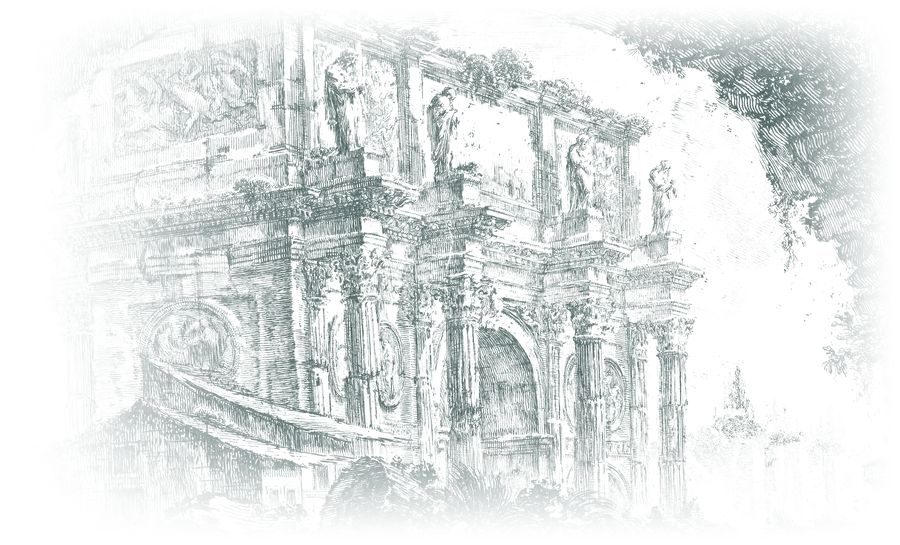
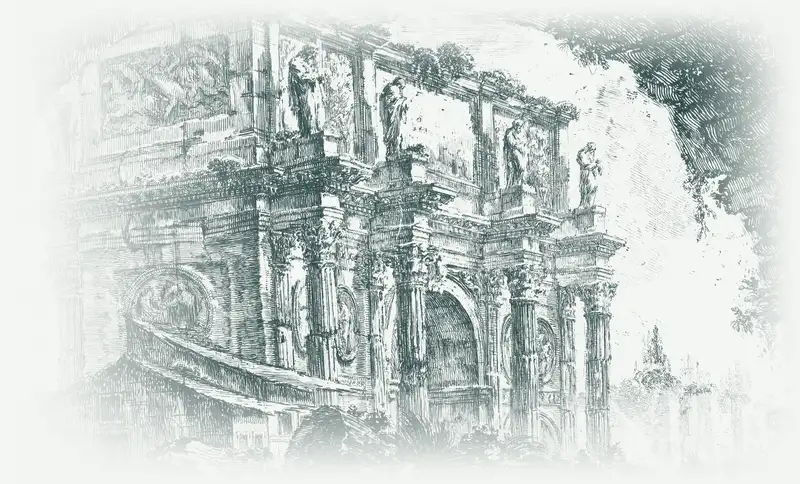
Tidepool: etched artwork on every page
Each page hero carries a public domain etching in the site's green duotone, faded into the page: Piranesi's Ponte Lugano on the bridge, his Giant Wheel on the flywheel, the Temple of Juturna columns on fees, Marot's library on docs, and Stradanus's engraver's workshop on the launch page. The footer ends in Piranesi's view of the Campo Vaccino as a full-width panorama. Sources: Art Institute of Chicago, Metropolitan Museum of Art and Cleveland Museum of Art open access (CC0). Images are opaque page-coloured WebP with the fades baked in, 90 to 280 KB each, with smaller copies for phones.

Claude-Session: https://claude.ai/code/session_01AAbnACDV9o9hhttvbxBPy7

diff --git a/launchpad-v4/tide/tide.js b/launchpad-v4/tide/tide.js
@@ -17,6 +17,7 @@
   };
   const state = { route: '', tf: 900, cmode: 'mcap', side: 'b', ttab: 'trades', busy: false, slip: Number((() => { try { return localStorage.getItem('slip'); } catch { return 0; } })() || 100) };
   const link = (t) => `#/token/${t.addr}`;
+  const etch = (name) => `<picture><source media="(max-width:900px)" srcset="/img/etch-${name}-sm.webp"><img class="etch" src="/img/etch-${name}.webp" alt="" decoding="async"></picture>`;
   const pct = (shareBps) => String(+((C.econ.feeBps / 100) * shareBps / 10000).toFixed(2));
   const chip = (v) => `<span class="chg ${v > 0 ? 'up' : v < 0 ? 'dn' : ''}">${(v > 0 ? '+' : '') + v.toFixed(Math.abs(v) >= 100 ? 0 : 1)}%</span>`;
   const feeOf = (t) => ((t.feeBps || C.econ.feeBps) / 100).toFixed(1).replace(/\.0$/, '') + '%';
@@ -170,8 +171,8 @@
     const pv = () => { const dev = parseFloat(CF.devBuy) || 0; return `${ribbon(CF.symbol || 'ticker')}<div class="ph"><span class="av">${CF.image ? `<img src="${CF.image}" alt="">` : `<img src="${APP.defaultImg(CF.symbol || '?', CF.name)}" alt="">`}</span><div><b>$${esc(CF.symbol || 'TICKER')}</b><small>${esc(CF.name || 'Your token')} · <span class="pill teal">new</span></small></div></div><div class="cap"><b>${fmtUsd(E.openMcapHype * APP.hypeUsd)}</b><span>opening market cap · ${fmtNum(E.openMcapHype)} ${esc(Q)}</span></div>
       <div class="kvs"><div class="kv"><span>Supply</span><b>${fmtNum(E.supply)}</b></div><div class="kv"><span>Paired with</span><b>${esc(Q)}</b></div><div class="kv"><span>Swap fee</span><b>${((E.feeBps + CF.creatorTaxBps) / 100).toFixed(1)}%</b></div><div class="kv"><span>To you</span><b>${pct(E.creatorShareBps)}% of every trade</b></div><div class="kv"><span>Anti-snipe</span><b>${E.snipeSeconds}s, ${E.snipeStartBps / 100}% → ${(E.feeBps / 100).toFixed(1)}%</b></div><div class="kv"><span>Dev buy</span><b>${dev ? dev + ' ' + Q : 'none'}</b></div><div class="kv"><span>Launch fee</span><b>${E.launchFeeHype} ${esc(Q)}</b></div><div class="kv"><span>You send</span><b>${fmtNum(E.launchFeeHype + dev, 4)} ${esc(Q)}</b></div></div>
       <div style="padding:0 16px 16px"><button class="btn lg full pri" id="c-go" ${live ? '' : 'disabled'}>${!live ? 'Opens with the Elysium launch' : !APP.W.connected ? 'Connect' : 'Launch'}</button></div>`; };
-    view.innerHTML = `<div class="page"><span class="eyebrow">Launch in one transaction</span><h1 class="disp" style="font-size:52px;margin-top:10px">Mint your <em>token.</em></h1><p class="mute" style="margin-top:8px;max-width:560px;font-size:15px">It creates the token, its ${esc(Q)} pool and the fee routing. Everything is fixed once it is live.</p>
-      <div class="lform" style="margin-top:26px"><div class="card pad form">
+    view.innerHTML = `<div class="page"><section class="phero lhero"><div><span class="eyebrow">Launch in one transaction</span><h1 class="disp" style="font-size:52px;margin-top:10px">Mint your <em>token.</em></h1><p class="mute" style="margin-top:8px;max-width:560px;font-size:15px">It creates the token, its ${esc(Q)} pool and the fee routing. Everything is fixed once it is live.</p></div><div class="pa etched">${etch('press')}</div></section>
+      <div class="lform" style="margin-top:8px"><div class="card pad form">
         <div style="display:flex;gap:18px;align-items:center"><label class="logo-pick" id="c-pick">${CF.image ? `<img src="${CF.image}" alt="">` : 'Upload<br>image'}<input type="file" id="c-file" accept="image/*" hidden></label><div style="flex:1;display:grid;gap:12px"><div class="fld"><label>Name</label><input class="inp" id="c-name" maxlength="32" placeholder="Name" value="${esc(CF.name)}"></div><div class="fld"><label>Ticker</label><input class="inp" id="c-sym" maxlength="10" placeholder="TICKER" value="${esc(CF.symbol)}"></div></div></div>
         <div class="fld"><label>Description · optional</label><textarea class="inp" id="c-desc" maxlength="256" placeholder="What is it?">${esc(CF.description)}</textarea></div>
         <div class="row2"><div class="fld"><label>X</label><input class="inp" id="c-x" placeholder="https://x.com/…" value="${esc(CF.x)}"></div><div class="fld"><label>Telegram</label><input class="inp" id="c-tg" placeholder="https://t.me/…" value="${esc(CF.telegram)}"></div></div>
@@ -195,7 +196,7 @@
   function bridge(sub) {
     if (!BR) { view.innerHTML = '<div class="page"><div class="empty">No bridge configured.</div></div>'; return; }
     const P = BR.parent, me = APP.W.connected ? APP.W.address : '';
-    const hero = `<section class="phero"><div><h1 class="disp">Bridge<span class="h-dot">.</span></h1><p>Bring ${esc(Q)} to Elysium, where Tidepool launches and trades: from ${esc(P.name)}, or from almost any coin you hold.</p>${sub ? `<a class="btn sm" href="#/bridge" style="margin-top:14px">← All bridge options</a>` : ''}</div><div class="pa">${art(21, 900, 420)}</div></section>`;
+    const hero = `<section class="phero"><div><h1 class="disp">Bridge<span class="h-dot">.</span></h1><p>Bring ${esc(Q)} to Elysium, where Tidepool launches and trades: from ${esc(P.name)}, or from almost any coin you hold.</p>${sub ? `<a class="btn sm" href="#/bridge" style="margin-top:14px">← All bridge options</a>` : ''}</div><div class="pa etched">${etch('bridge')}</div></section>`;
     if (!sub) {
       view.innerHTML = `<div class="page">${hero}
         <div class="bcards">
@@ -320,7 +321,7 @@
     const proto = ts.reduce((a, t) => a + t.feesAll * (1 - t.creatorShareBps / 10000), 0), own = tide ? tide.feesAll * (tide.creatorShareBps / 10000) : 0, bb = (ST.burnBps || 0) / 100;
     const spent = fly ? fly.burnedQuote : 0, burned = fly ? fly.burnedTokens : 0, queued = fly ? fly.toBuyback - fly.burnedQuote : 0, burns = fly ? fly.events.filter((e) => e.kind === 'burn') : [];
     const range = state.fwr || 'all', now = Math.floor(Date.now() / 1000), span = range === '1d' ? 86400 : range === '7d' ? 7 * 86400 : range === '30d' ? 30 * 86400 : Infinity, inRange = burns.filter((e) => now - e.ts <= span);
-    view.innerHTML = `<div class="page"><section class="phero"><div><h1 class="disp">Flywheel<span class="h-dot">.</span></h1><p>Every trade pays a fixed ${(C.econ.feeBps / 100).toFixed(1)}% in ${esc(Q)}. ${pct(C.econ.creatorShareBps)}% of volume goes to the creator of the token that was traded; the protocol's ${pct(C.econ.protocolShareBps)}% flows into $${esc(T)}.</p></div><div class="pa">${art(33, 900, 420)}</div></section>
+    view.innerHTML = `<div class="page"><section class="phero"><div><h1 class="disp">Flywheel<span class="h-dot">.</span></h1><p>Every trade pays a fixed ${(C.econ.feeBps / 100).toFixed(1)}% in ${esc(Q)}. ${pct(C.econ.creatorShareBps)}% of volume goes to the creator of the token that was traded; the protocol's ${pct(C.econ.protocolShareBps)}% flows into $${esc(T)}.</p></div><div class="pa etched">${etch('wheel')}</div></section>
       <div class="sec"><h2>Fees into $${esc(T)}</h2><span class="ln"></span></div>
       <div class="fwgrid"><div><div class="fcard"><div class="lab"><span>Protocol fees</span><span class="pill teal">${bb}% to buybacks</span></div><div class="v"><b>${fmtNum(proto, 3)} ${esc(Q)}</b><span>${fmtUsd(proto * APP.hypeUsd)}</span></div><small>${C.econ.protocolShareBps / 100}% of every fee, from ${ts.length} launches</small></div><div class="fcard"><div class="lab"><span>$${esc(T)}'s own fees</span><span class="pill teal">creator side</span></div><div class="v"><b>${fmtNum(own, 3)} ${esc(Q)}</b><span>${fmtUsd(own * APP.hypeUsd)}</span></div><small>Its pool's whole creator side belongs to the protocol</small></div></div>
         <div class="mid">Buys $${esc(T)}</div>
@@ -342,7 +343,7 @@
   // ---- fees (creators)
   function fees() {
     const me = APP.W.connected ? low(APP.W.address) : '';
-    const hero = `<section class="phero"><div><h1 class="disp">Your fees<span class="h-dot">.</span></h1><p>Creator fees from the tokens you launched, ready to claim to your wallet.</p></div><div class="pa">${art(44, 900, 420)}</div></section>`;
+    const hero = `<section class="phero"><div><h1 class="disp">Your fees<span class="h-dot">.</span></h1><p>Creator fees from the tokens you launched, ready to claim to your wallet.</p></div><div class="pa etched">${etch('columns')}</div></section>`;
     if (!me) { view.innerHTML = `<div class="page">${hero}<div class="card pad" style="text-align:center;padding:48px 20px"><h2>Connect to see your fees</h2><p class="mute" style="margin-top:8px">Creator fees from the tokens you launched collect here until you claim them.</p><button class="btn pri" id="f-conn" style="margin-top:18px">Connect</button></div></div>`; $('#f-conn').onclick = APP.W.connect; return; }
     const cr = DATA.creator(me), mine = cr.tokens || [];
     view.innerHTML = `<div class="page">${hero}<div class="grid2"><div class="card pad"><span class="eyebrow">Claimable now</span><div class="adres" style="border:0;padding:0;margin-top:10px"><b>${hype(cr.pending, 5)}</b><small>${usd(cr.pending)} across ${mine.length} token${mine.length === 1 ? '' : 's'} · ${hype(cr.lifetime, 4)} earned all time</small></div><button class="btn lg full pri" id="f-claim" style="margin-top:18px" ${cr.pending > 0 ? '' : 'disabled'}>${cr.pending > 0 ? 'Claim to my wallet' : 'Nothing to claim yet'}</button></div>
@@ -431,7 +432,7 @@
     const addr = (a) => (a ? `<a class="num" href="${APP.explorer('address', a)}" target="_blank" rel="noopener">${esc(a)}</a>` : '<span class="mute">not deployed yet</span>');
     const toc = [['How it works', [['uniswap', 'Built on Uniswap'], ['launch', 'Launching a token'], ['fees', 'Fees'], ['flywheel', 'Buybacks'], ['tide', '$' + S]]], ['Using Tidepool', [['trading', 'Trading'], ['bridge', 'Bridge'], ['airdrop', 'Airdrop'], ['network', 'Network and RPC']]], ['Reference', [['contracts', 'Contracts']]]];
     let n = 0; const adPct = AD ? AD.pools.reduce((a, p) => a + p.pct, 0) : 0, PN = BR ? BR.parent.name : 'HyperEVM';
-    view.innerHTML = `<div class="page"><section class="phero" style="min-height:0;margin-bottom:10px"><div><h1 class="disp">Docs<span class="h-dot">.</span></h1><p>What happens when a token launches on Tidepool, where every fee goes, and the address of every contract.</p></div><div class="pa" style="height:180px">${art(55, 900, 300)}</div></section>
+    view.innerHTML = `<div class="page"><section class="phero" style="min-height:0;margin-bottom:10px"><div><h1 class="disp">Docs<span class="h-dot">.</span></h1><p>What happens when a token launches on Tidepool, where every fee goes, and the address of every contract.</p></div><div class="pa etched" style="height:180px">${etch('library')}</div></section>
       <div class="docs"><nav class="toc">${toc.map(([g, items]) => `<span>${g}</span>${items.map(([id, l]) => `<a href="#/docs#${id}" data-doc="${id}"><i>${String(++n).padStart(2, '0')}</i>${l}</a>`).join('')}`).join('')}</nav>
       <article class="doc">
         <section id="d-uniswap"><h2>Built on Uniswap</h2><p>Tidepool runs on the official Uniswap v4 deployment on Elysium. Every Tidepool pool lives in the PoolManager that Uniswap deployed there, and trades go through Uniswap's own UniversalRouter. Tidepool adds a hook to it, not a copy of it.</p></section>
@@ -472,7 +473,7 @@
     const o = $('#m-out', ov); if (o) o.onclick = () => { W.disconnect(); close(); };
   }
   function searchDialog() { const ov = APP.dialog('Search', `<div class="picker"><input class="inp" id="sq" placeholder="Name, ticker or address" autocomplete="off"><div class="list" id="sq-list"></div></div>`); const draw = (s) => { const ls = DATA.tokens().filter((t) => s && (t.name.toLowerCase().includes(s) || t.symbol.toLowerCase().includes(s) || t.addr.includes(s))).slice(0, 8); $('#sq-list', ov).innerHTML = ls.map((t) => `<a class="row" href="${link(t)}"><span class="av">${APP.img(t)}</span><span><b>${esc(t.name)}</b><small>$${esc(t.symbol)} · ${fmtUsd(t.mcapUsd)}</small></span></a>`).join(''); $$('a', ov).forEach((a) => a.onclick = () => ov.remove()); }; $('#sq', ov).oninput = (e) => draw(e.target.value.trim().toLowerCase()); setTimeout(() => $('#sq', ov).focus(), 30); }
-  function footer() { const f = $('#foot-art'); if (f && window.ART) f.innerHTML = ART.waves({ w: 1400, h: 140, seed: 2 }); const y = $('#f-year'); if (y) y.textContent = new Date().getFullYear(); }
+  function footer() { const f = $('#foot-art'); if (f) f.innerHTML = `<img class="pano" src="/img/etch-forum.webp" srcset="/img/etch-forum-sm.webp 900w, /img/etch-forum.webp 1800w" sizes="100vw" alt="" decoding="async">`; const y = $('#f-year'); if (y) y.textContent = new Date().getFullYear(); }
   APP.boot(async () => {
     $('#n-search').onclick = searchDialog; const nm = $('#n-menu'); if (nm) nm.onclick = menuSheet; footer();
     document.addEventListener('keydown', (e) => { if (e.key === '/' && !/input|textarea|select/i.test(document.activeElement.tagName)) { e.preventDefault(); searchDialog(); } });

diff --git a/launchpad-v4/tide/tide.css b/launchpad-v4/tide/tide.css
@@ -98,7 +98,7 @@ table.tb{width:100%;border-collapse:collapse}.tb th{font:500 11px var(--mono);le
 .banner{display:flex;align-items:center;gap:20px;padding:22px 26px;margin-top:34px}.banner h3{font:400 26px var(--serif)}.banner .amt{font:400 40px/1 var(--serif);color:var(--mint)}.banner .btn{margin-left:auto}
 
 /* page hero (bridge, flywheel, airdrop, docs, fees) */
-.phero{display:grid;grid-template-columns:minmax(0,1fr) minmax(0,1.1fr);gap:24px;align-items:center;min-height:260px;margin-bottom:28px}.phero h1{font-size:72px}.phero h1 .h-dot{color:var(--acc)}.phero p{margin-top:14px;color:var(--ink2);font-size:16px;max-width:460px}.phero .pa{position:relative;height:260px;overflow:hidden;border-radius:var(--r3)}.phero .pa::after{content:"";position:absolute;inset:0;background:radial-gradient(70% 70% at 60% 50%,transparent 30%,var(--bg) 100%)}
+.phero{display:grid;grid-template-columns:minmax(0,1fr) minmax(0,1.1fr);gap:24px;align-items:center;min-height:260px;margin-bottom:28px}.phero h1{font-size:72px}.phero h1 .h-dot{color:var(--acc)}.phero p{margin-top:14px;color:var(--ink2);font-size:16px;max-width:460px}.phero .pa{position:relative;height:260px;overflow:hidden;border-radius:var(--r3)}.phero .pa::after{content:"";position:absolute;inset:0;background:radial-gradient(70% 70% at 60% 50%,transparent 30%,var(--bg) 100%)}.phero .pa.etched::after{background:linear-gradient(90deg,var(--bg) 0%,transparent 26%),linear-gradient(0deg,var(--bg) 0%,transparent 22%)}.pa .etch{position:absolute;inset:0;width:100%;height:100%;object-fit:cover;object-position:60% 45%}.phero.lhero{min-height:0;margin-bottom:10px}.phero.lhero .pa{height:230px}
 
 /* token page */
 .tk{display:grid;grid-template-columns:minmax(0,1fr) 380px;gap:22px;align-items:start}
@@ -189,8 +189,8 @@ details.terms{color:var(--mute);font-size:13px;margin-top:16px}details.terms sum
 
 /* footer */
 .foot{margin-top:60px;border-top:1px solid var(--line);position:relative;overflow:hidden}.foot .in{max-width:var(--wrap);margin:0 auto;padding:44px 24px 24px;display:grid;grid-template-columns:1.4fr repeat(4,1fr);gap:28px}.foot .fb{font:400 44px var(--serif);letter-spacing:.02em}.foot .fb+p{margin-top:12px;color:var(--ink2);font-size:14px;max-width:360px}.foot .acts{display:flex;gap:10px;margin-top:18px}.foot h4{margin:6px 0 10px;font:500 10.5px var(--mono);letter-spacing:.14em;text-transform:uppercase;color:var(--mute)}.foot .col a{display:block;padding:4px 0;color:var(--ink2);font-size:14px}.foot .col a:hover{color:var(--ink)}
-.foot .legal{max-width:var(--wrap);margin:0 auto;padding:18px 24px 120px;border-top:1px solid var(--line);color:var(--mute);font-size:12.5px;display:flex;justify-content:space-between;gap:16px;position:relative;z-index:1}
-.foot .fart{position:absolute;left:0;right:0;bottom:0;height:140px;color:var(--acc);opacity:.35;pointer-events:none}.foot .fart svg{width:100%;height:100%}
+.foot .legal{max-width:var(--wrap);margin:0 auto;padding:18px 24px 320px;border-top:1px solid var(--line);color:var(--mute);font-size:12.5px;display:flex;justify-content:space-between;gap:16px;position:relative;z-index:1}
+.foot .fart{position:absolute;left:0;right:0;bottom:0;height:300px;pointer-events:none}.fart .pano{display:block;width:100%;height:100%;object-fit:cover;object-position:center bottom}.foot .fart svg{width:100%;height:100%}
 
 /* phone menu */
 .sheetov{align-items:end;padding:0;opacity:0;transition:opacity .18s}.sheetov.in{opacity:1}
@@ -230,7 +230,7 @@ details.terms{color:var(--mute);font-size:13px;margin-top:16px}details.terms sum
   .bcards{grid-template-columns:1fr}.bflow{grid-template-columns:1fr}.facts{grid-template-columns:1fr 1fr 1fr}.bwide{flex-wrap:wrap}.bwide .btn{margin-left:0;width:100%}
   .fwgrid{grid-template-columns:1fr}.fwgrid .mid{display:none}.charts,.lists{grid-template-columns:1fr}.tiles{grid-template-columns:1fr}.calc .out{grid-template-columns:1fr}
   .docs{grid-template-columns:1fr}.toc{position:static}.doc h2{font-size:28px}
-  .foot .in{grid-template-columns:1fr 1fr;gap:20px;padding:28px 14px 16px}.foot .in>div:first-child{grid-column:1/-1}.foot .legal{flex-direction:column;padding:14px 14px 130px}
+  .foot .in{grid-template-columns:1fr 1fr;gap:20px;padding:28px 14px 16px}.foot .in>div:first-child{grid-column:1/-1}.foot .legal{flex-direction:column;padding:14px 14px 230px}.fart{height:200px}.phero.lhero .pa{height:150px}
   .inp,textarea.inp{font-size:16px}
   .tb th:nth-child(n+5),.tb td:nth-child(n+5){display:none}.tb.keep th,.tb.keep td{display:table-cell}.tb.mkt td.idx,.tb.mkt th:first-child{display:none}
   .kv{gap:14px;align-items:flex-start}.kv span{flex:0 0 auto;max-width:48%}.kv b{flex:1 1 auto;min-width:0}

diff --git a/launchpad-v4/tide/index.html b/launchpad-v4/tide/index.html
@@ -5,7 +5,7 @@
 <meta name="theme-color" content="#f3f5f2">
 <link rel="icon" href="/img/favicon.svg" type="image/svg+xml">
 <link rel="preconnect" href="https://fonts.googleapis.com"><link rel="stylesheet" href="https://fonts.googleapis.com/css2?family=Instrument+Serif:ital@0;1&family=Inter:wght@400;500;600;700&family=Geist+Mono:wght@400;500&display=swap">
-<link rel="stylesheet" href="/tide.css?v=20">
+<link rel="stylesheet" href="/tide.css?v=21">
 </head><body>
 <header class="nav" id="nav">
   <div class="navpill"><a class="brand" href="#/"><img src="/img/logo.svg" alt=""><span>Tidepool</span></a>
@@ -37,5 +37,5 @@
 <script src="/chain.js?v=1"></script>
 <script src="/art.js?v=1"></script>
 <script src="/bridge.js?v=1"></script>
-<script src="/tide.js?v=17"></script>
+<script src="/tide.js?v=18"></script>
 </body></html>
